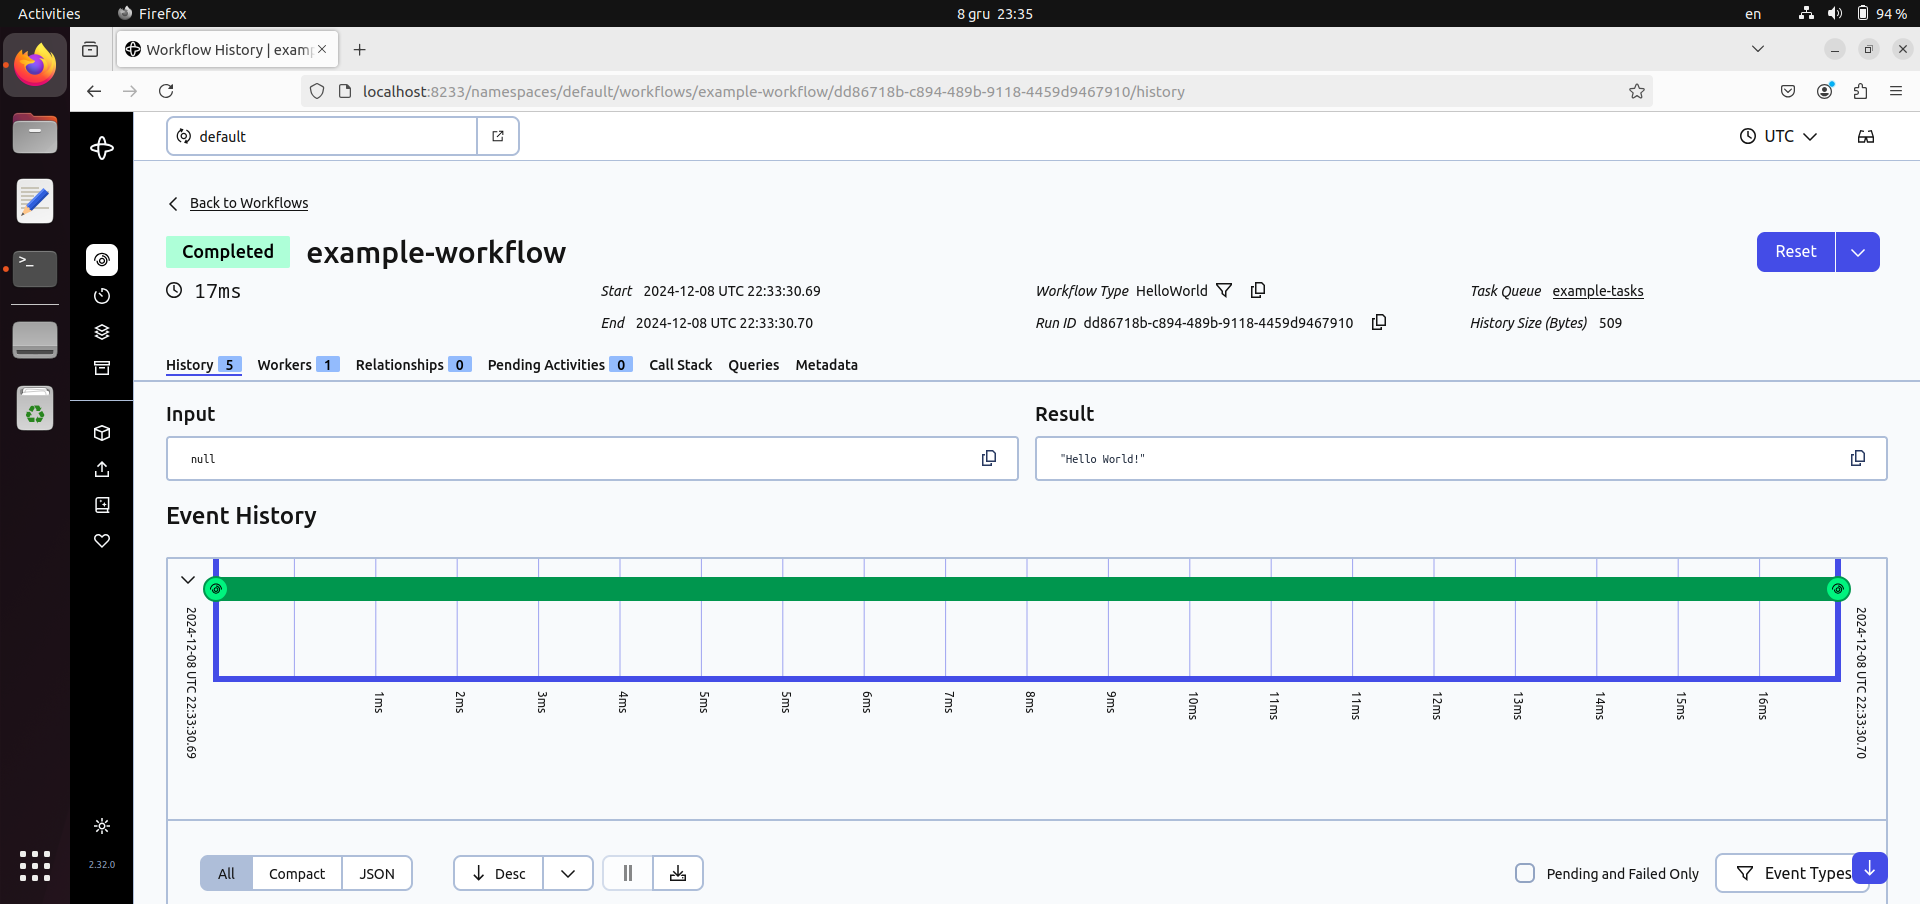
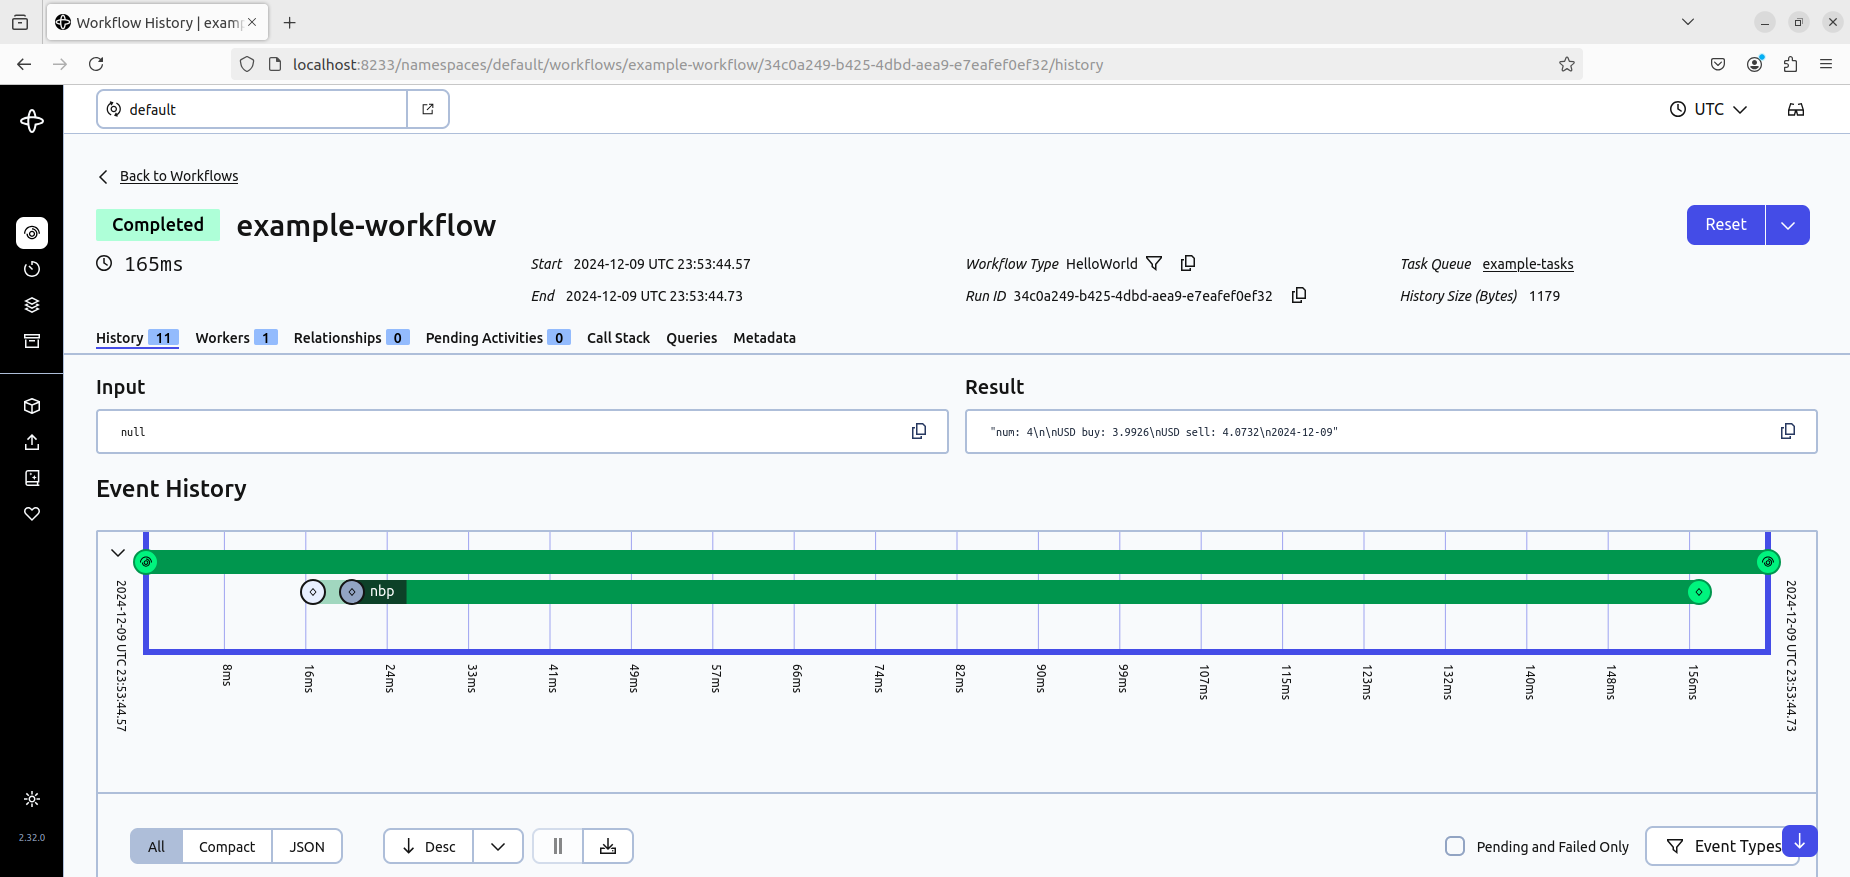
Add Temporal Activity to Workflow

diff --git a/nbp.py b/nbp.py
@@ -1,0 +1,22 @@
+from temporalio import workflow
+from temporalio.exceptions import ApplicationError
+
+with workflow.unsafe.imports_passed_through():
+    import httpx
+
+
+async def get_rate() -> str:
+    url = "http://api.nbp.pl/api/exchangerates/rates/c/usd/"
+    async with httpx.AsyncClient() as client:
+        r = await client.get(url)
+        if r.status_code >= 400:
+            raise ApplicationError(
+                f"HTTP Error {r.status}",
+                non_retryable=r.status_code < 500,  # retry 5xx but not 4xx
+            )
+        data = r.json()
+        buy = data['rates'][0]['bid']
+        sell = data['rates'][0]['ask']
+        effective_date = data['rates'][0]['effectiveDate']
+        text = f"USD buy: {buy}\nUSD sell: {sell}\n{effective_date}"
+    return text

diff --git a/example_workflow.py b/example_workflow.py
@@ -1,8 +1,22 @@
+from datetime import timedelta
+
+from temporalio import activity
 from temporalio import workflow
+
+from nbp import get_rate
 
 
 @workflow.defn
 class HelloWorld:
     @workflow.run
     async def run(self) -> str:
-        return "Hello World!"
+        num = 2 + 2  # deterministic
+        text = await workflow.execute_activity(
+            nbp, start_to_close_timeout=timedelta(seconds=5))
+        return f"num: {num}\n\n{text}"
+
+
+@activity.defn
+async def nbp() -> str:
+    text = await get_rate()
+    return text

diff --git a/worker.py b/worker.py
@@ -4,11 +4,15 @@ from temporalio.client import Client
 from temporalio.worker import Worker
 
 from example_workflow import HelloWorld
+from example_workflow import nbp
 
 
 async def main():
     client = await Client.connect("localhost:7233", namespace="default")
-    worker = Worker(client, task_queue="example-tasks", workflows=[HelloWorld])
+    worker = Worker(client,
+                    task_queue="example-tasks",
+                    workflows=[HelloWorld],
+                    activities=[nbp])
     await worker.run()
 
 

diff --git a/app.py b/app.py
@@ -12,7 +12,7 @@ async def main():
         task_queue="example-tasks",
     )
     result = await handle.result()
-    print(f"Result: {result}")
+    print(result)
 
 
 if __name__ == "__main__":

diff --git a/README.md b/README.md
@@ -52,7 +52,11 @@ $ python3 app.py
 
 Example output:
 ```sh
-Result: Hello World!
+num: 4
+
+USD buy: 3.9926
+USD sell: 4.0732
+2024-12-09
 ```
 
 Navigate to Temporal Web UI at http://localhost:8233 to see Temporal Workflows:
